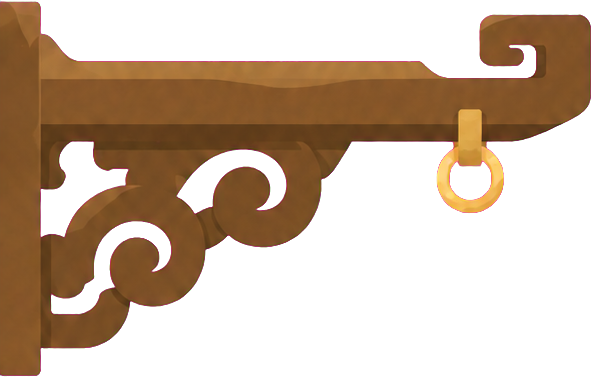
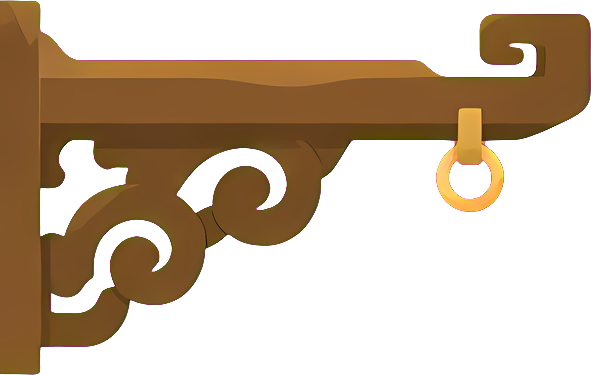
Mounts cleaned with Real-ESRGAN (anime model, half-size then 4x; the roof twice): the originals' drawing, without the grain (owner)

diff --git a/tools/art/masters.py b/tools/art/masters.py
@@ -19,11 +19,11 @@ OUT = os.path.join(HERE, "masters")
 
 # master name -> the picture kept for it (the review's name, in out/final)
 MASTERS = {
-    "roof-eave": "mount-roof-eave-tie",         # take 2, a red cord tied round its tip (group "rings"; the ring looked fake)
+    "roof-eave": "mount-roof-eave-esr",         # mount-roof-eave-tie (take 2, a red cord tied round its tip), cleaned (ESR below)
     "bamboo-pole": "mount-bamboo-pole-ring",    # its red loop swapped for a brass ring (group "rings")
     "iron-scroll": "mount-iron-scroll-take2",
-    "cloud-bracket": "mount-cloud-bracket",
-    "dragon-head": "mount-dragon-head",
+    "cloud-bracket": "mount-cloud-bracket-esr",   # mount-cloud-bracket, cleaned (ESR below)
+    "dragon-head": "mount-dragon-head-esr",       # mount-dragon-head, cleaned (ESR below)
     "jade-bracket": "mount-jade-bracket-take2",
     "brass-rod": "mount-brass-rod",
     "stone-corbel": "mount-stone-corbel",
@@ -31,7 +31,11 @@ MASTERS = {
 # until the ring swaps are made, the pictures they're made from
 FALLBACK = {"mount-roof-eave-tie": "mount-roof-eave-ring", "mount-bamboo-pole-ring": "mount-bamboo-pole"}
 TIE = {"mount-roof-eave-ring": (403, 240)}   # picture -> (x, y) by hand, where the found one is wrong (the eave's orange woodwork reads as brass)
-CORD_END = {"mount-roof-eave-tie"}           # tied with a cord, not a ring: the tie point is the cord's end
+CORD_END = {"mount-roof-eave-tie", "mount-roof-eave-esr"}
+# ESR: the three mounts on the path had a blotchy grain in their colour (the owner: "this weird artifact pattern").
+# Cleaned with Real-ESRGAN (realesrgan-ncnn-vulkan, model realesrgan-x4plus-anime): each raw picture shrunk to half,
+# redrawn 4x and brought back to its size, so the model redraws the colour flat and the edges crisp; the roof twice
+# (its shadows kept some grain; the owner: "a little more love in these areas"). Saved as out/raw/mount-*-esr.png.           # tied with a cord, not a ring: the tie point is the cord's end
 
 
 def brass(a):
